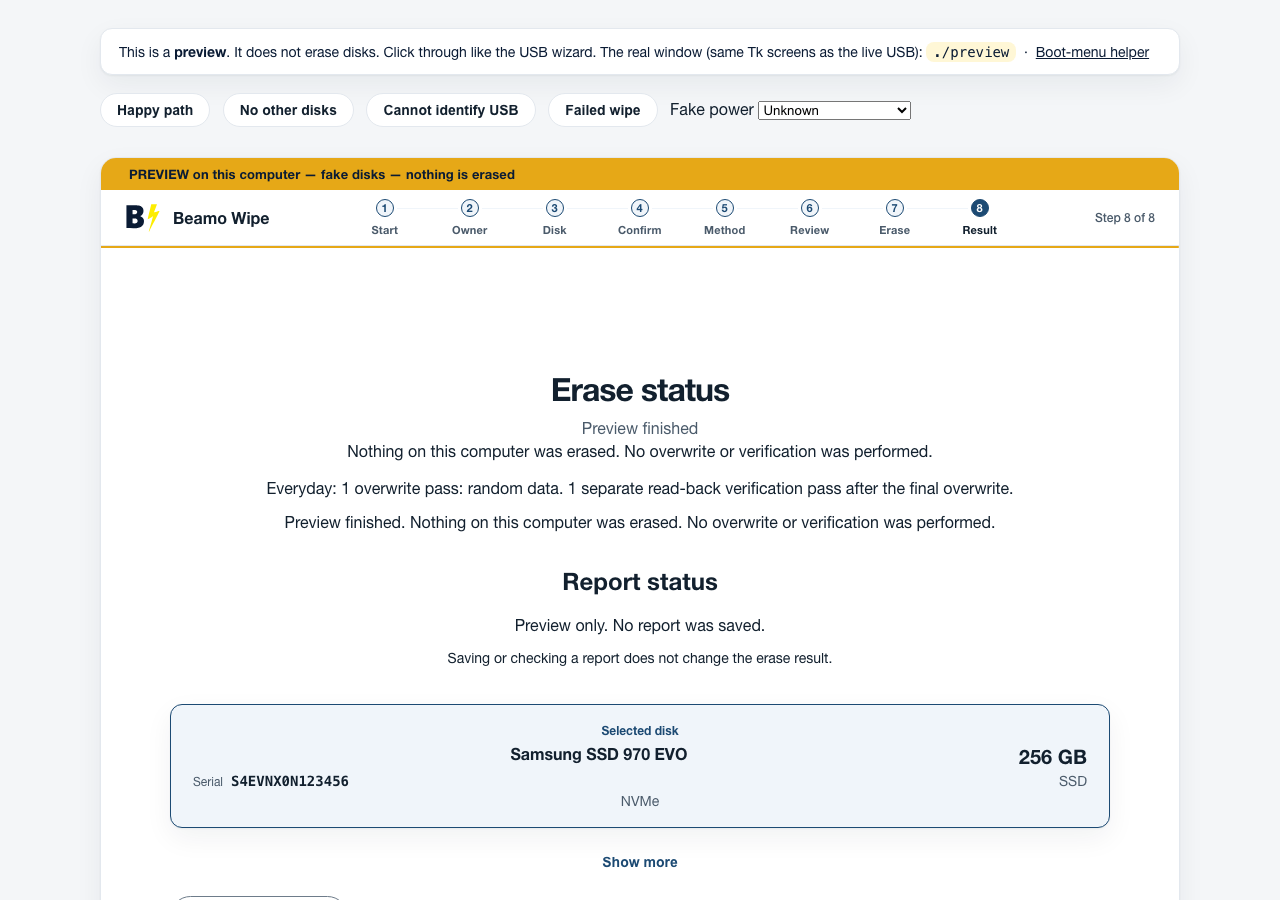
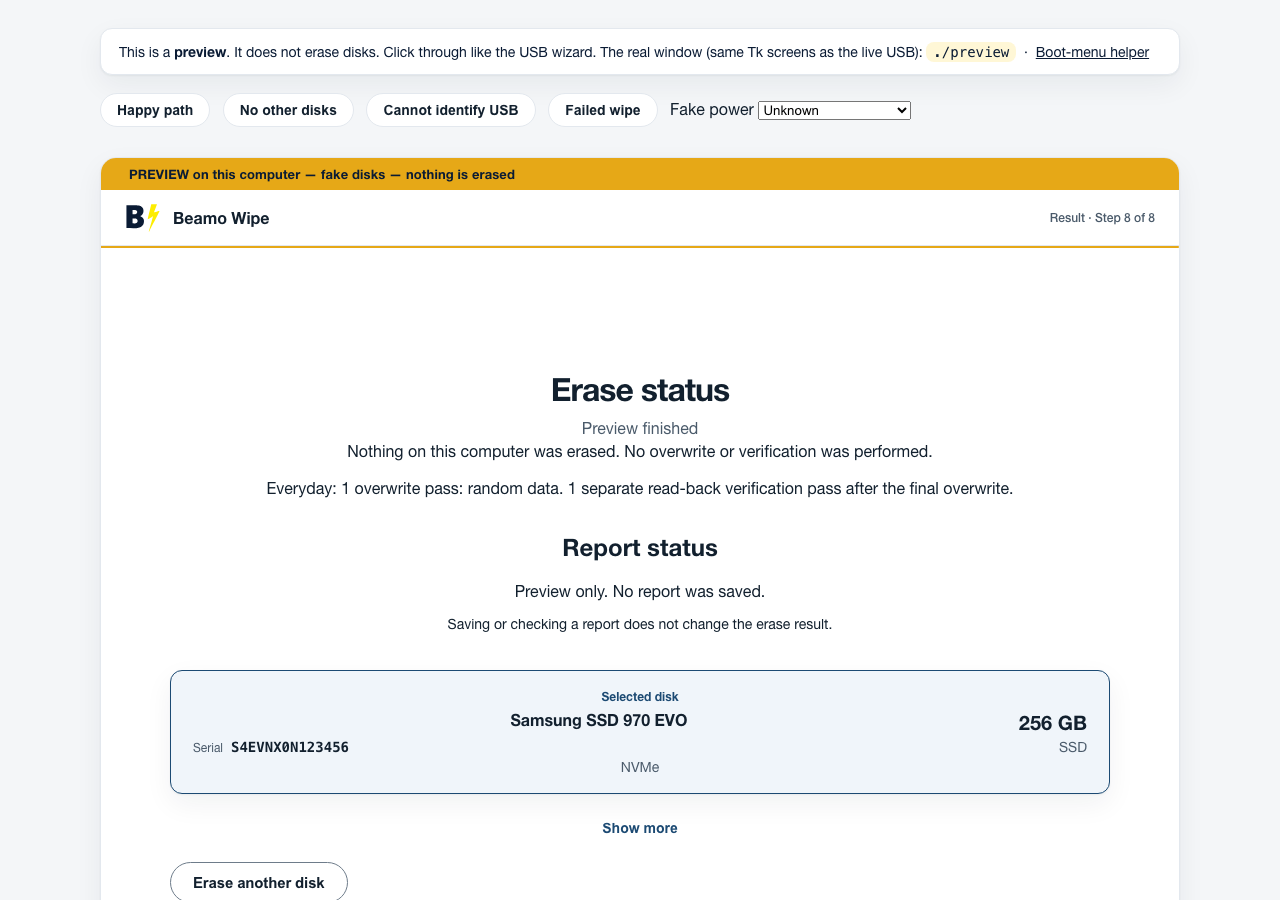
feat: drop kernel paths from pick cards and stop repeating result copy
Unlabeled partitions nest as "Partition · size" without /dev/ names.
Working keeps live power inside the progress card. The done preview
no longer reprints the announcement under the same two sentences.

Fake disks only.

diff --git a/src/beamo_wipe/gallery.py b/src/beamo_wipe/gallery.py
@@ -1026,12 +1026,13 @@ function draw() {
     main.innerHTML = `<h1>${P.titles.working}</h1>
       ${summaryCard(selected)}
       ${moreLink()}
-      ${powerPanel()}
       <div class="cz"><div class="czc">
       <div class="progress-card"><div class="progress-label">Erase progress</div>
       <div class="bigstat" id="pct" style="margin:0 0 12px">${known ? pct + "%" : ""}</div>
       <div class="bar"><div class="fill${known ? "" : " indet"}" id="fill" style="width:${Math.max(2, pct)}%"></div></div>
-      <p class="muted" style="font-size:16px;margin-top:14px" id="pulse">${m.title}. &nbsp;${P.working}</p><p class="small muted">${m.summary}</p></div></div></div>`;
+      <p class="muted" style="font-size:16px;margin-top:14px" id="pulse">${m.title}. &nbsp;${P.working}</p>
+      <div id="power-status" role="status" aria-live="polite" class="small muted">${powerText()}</div>
+      <p class="small muted">${m.summary}</p></div></div></div>`;
     bindMore();
     btnsL.append(btn(P.stop.ask, () => {
       if (screen === "working") { screen = "stop_confirm"; draw(); }
@@ -1075,7 +1076,7 @@ function draw() {
       <section aria-labelledby="erase-status-heading"><h1 id="erase-status-heading">${P.eraseStatusTitle}</h1>
       <p class="statustext">${result.message}</p>
       <p class="statustext" style="color:var(--ink)">${result.next_step}</p>
-      <p>${P.methods[method].summary}</p><p role="status" aria-live="polite">${result.announcement}</p>
+      <p>${P.methods[method].summary}</p>
       </section><section aria-labelledby="report-status-heading">
       <h2 id="report-status-heading">${P.reportStatusTitle}</h2>
       <p>${P.reportPreview}</p><p class="small">${P.reportStatusNotice}</p></section>

diff --git a/tests/test_ui_system.py b/tests/test_ui_system.py
@@ -304,6 +304,23 @@ def test_light_surfaces_do_not_wrap_the_logo_in_a_navy_tile():
     assert chip and "background: var(--navy)" not in chip.group(0)
 
 
+def test_done_preview_does_not_repeat_the_announcement():
+    """Would fail when gallery done printed message, next_step, and announcement."""
+    html = gallery_html()
+    assert "${result.message}" in html
+    assert "${result.next_step}" in html
+    assert "${result.announcement}" not in html
+
+
+def test_nested_pick_headings_do_not_use_kernel_paths():
+    """Would fail when unlabeled partitions showed /dev/ names on the pick card."""
+    from beamo_wipe import inventory as inv
+
+    source = inspect.getsource(inv.component_summary)
+    assert "SYSTEM_PATH_NOTE" not in source
+    assert "disk.path" not in source
+
+
 def test_last_chance_does_not_repeat_the_check_line():
     """Would fail when Last chance printed LAST_LEAD and REVIEW_CHECK together."""
     last = inspect.getsource(tkui.TkWizard._last)

diff --git a/src/beamo_wipe/ui/tk_wizard.py b/src/beamo_wipe/ui/tk_wizard.py
@@ -2906,7 +2906,6 @@ class TkWizard:
         if disk is not None:
             self._disk_summary(col, disk).pack(fill=tk.X)
             self._more_link(col)
-        self._power_notice(col)
         card_copy = C.METHOD_CARDS[self.w.method]
         container = self._center_zone(col)
         progress_card = _Box(container, radius=RADIUS, fill=SURFACE_ALT,
@@ -2927,6 +2926,7 @@ class TkWizard:
             zone, f"{card_copy['title']}.  {C.WORKING_PULSE}", fg=MUTED, font=self.font_b, bg=SURFACE_ALT
         )
         self._progress_label.pack(fill=tk.X, pady=(14, 0))
+        self._power_notice(zone, reminder=False, bg=SURFACE_ALT)
         self._p(zone, self.w.method_summary, font=self.font_s,
                 fg=MUTED, bg=SURFACE_ALT).pack(fill=tk.X, pady=(10, 0))
         if self.w.evidence_warning:

diff --git a/src/beamo_wipe/inventory.py b/src/beamo_wipe/inventory.py
@@ -41,7 +41,7 @@ def kind_label_for_type(node_type: str) -> str:
 
 def component_summary(disk: Disk, kind_label: str) -> str:
     """Plain nested label. Parent serial/model stay on the parent card."""
-    from beamo_wipe.identity import SYSTEM_PATH_NOTE, UNKNOWN_MODEL
+    from beamo_wipe.identity import UNKNOWN_MODEL
 
     heading = kind_label or "Technical component"
     parts = [heading]
@@ -53,8 +53,6 @@ def component_summary(disk: Disk, kind_label: str) -> str:
         extra = title
     if extra and extra not in parts:
         parts.append(extra)
-    elif not extra and (disk.path or "").strip():
-        parts.append(f"{SYSTEM_PATH_NOTE}: {disk.path}")
     return " · ".join(parts)
 
 

diff --git a/tests/test_group_partitions.py b/tests/test_group_partitions.py
@@ -203,6 +203,7 @@ def test_parent_identity_stays_on_parent_card():
     assert "Partition" in nest
     assert "Encrypted volume" in nest
     assert "unsupported device" in nest
+    assert "/dev/" not in nest
 
 
 def test_eligibility_unchanged_for_nested_and_boot():

diff --git a/docs/evidence/modern-minimal-ui/README.md b/docs/evidence/modern-minimal-ui/README.md
@@ -11,6 +11,8 @@ warnings remain fully visible.
 - Header names only the current step (`Confirm · Step 4 of 8`)
 - Confirm/method/last-check leads in plain language
 - One power panel, method limits as a quiet note, no repeated last-check line
+- Pick cards nest partitions without kernel paths; working keeps one progress card
+- Done preview no longer repeats the announcement line
 - Helper opens with the same three-step path as the wizard
 - WCAG 2.1 AA text and non-text contrast still pass
 
